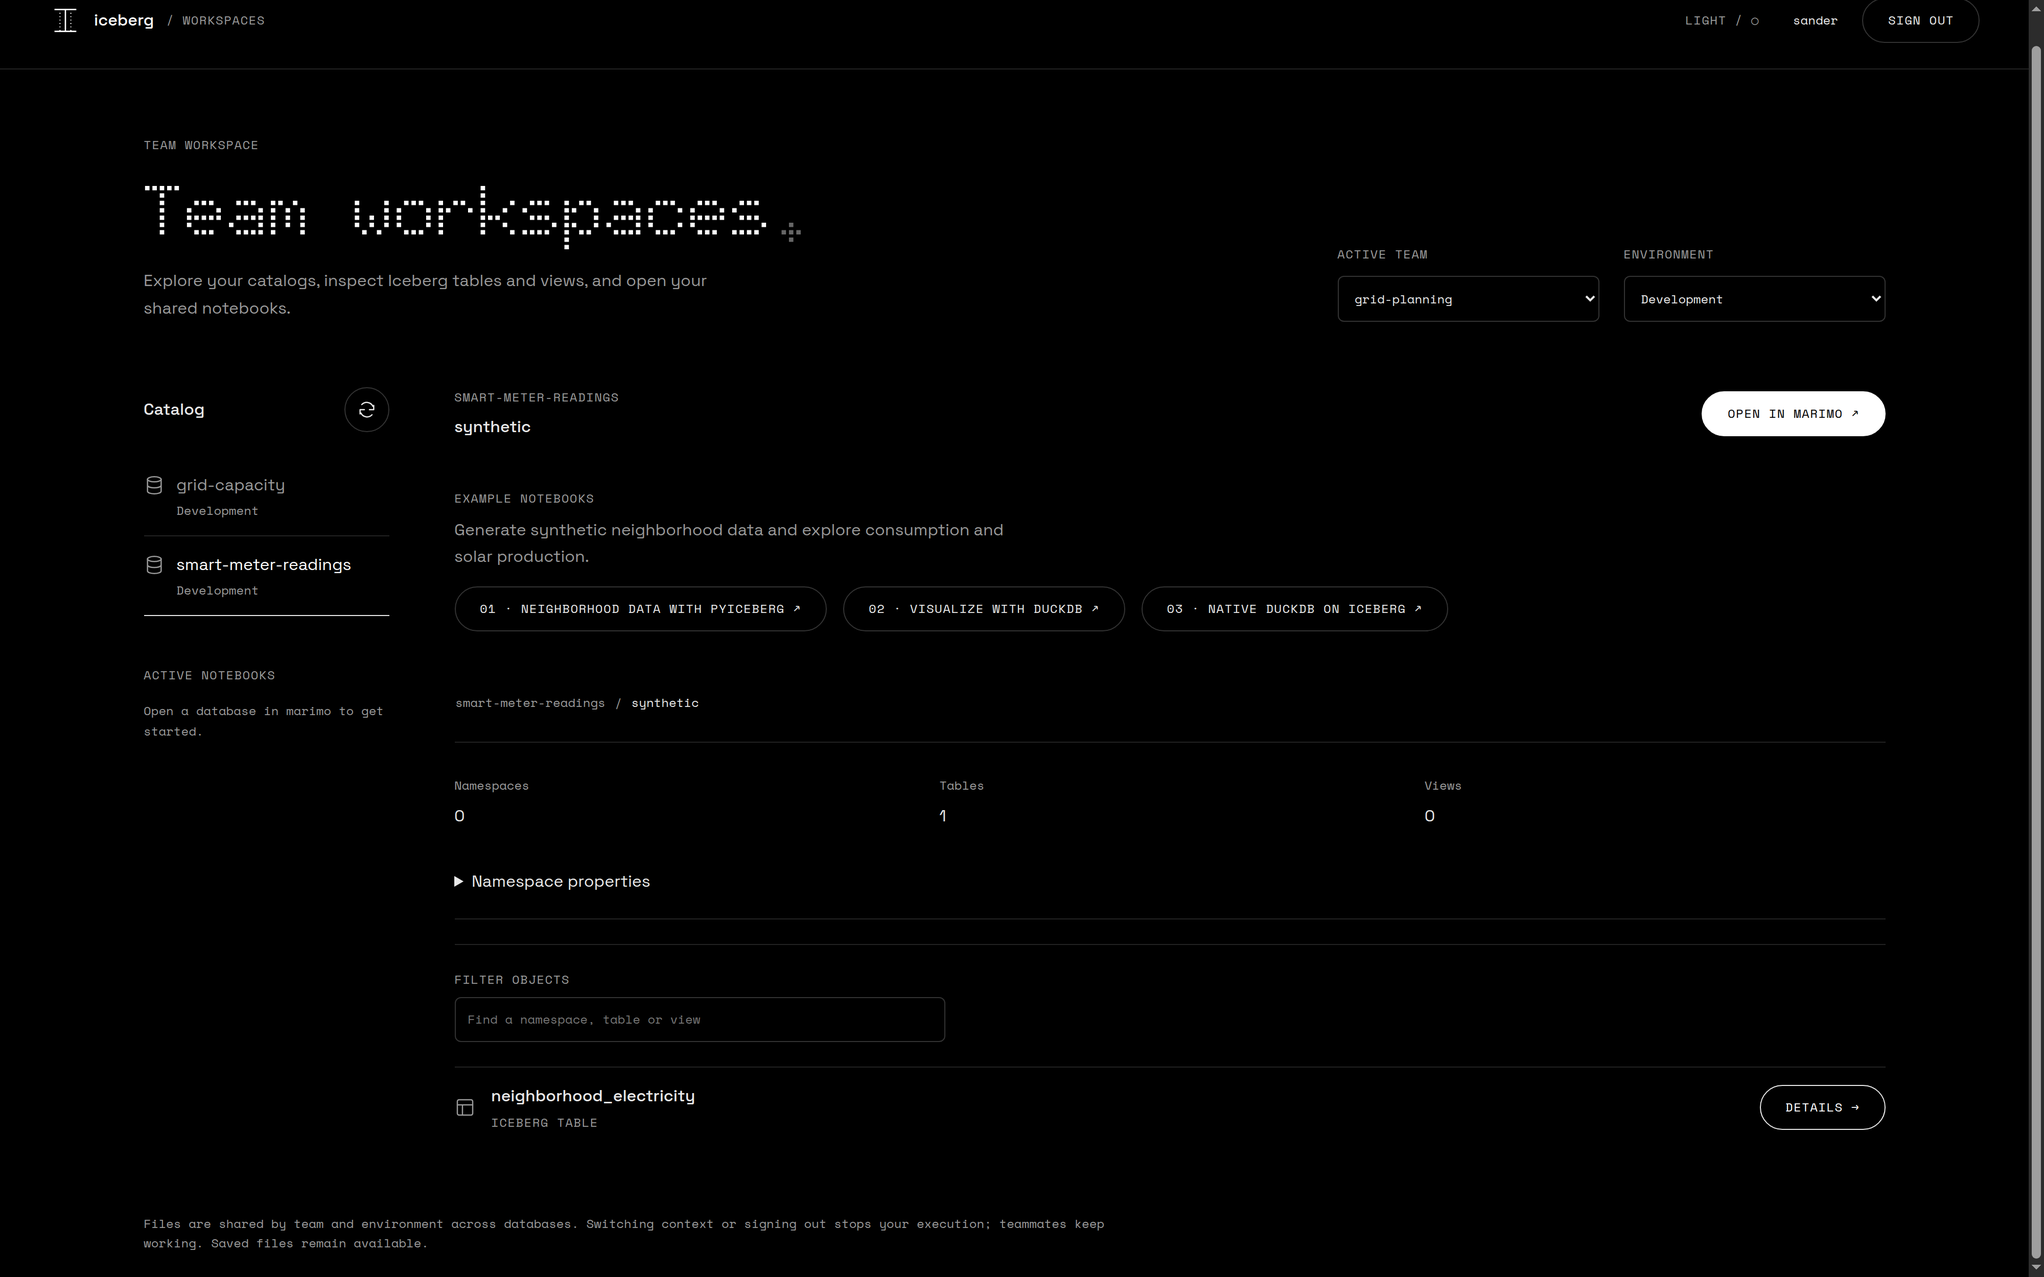
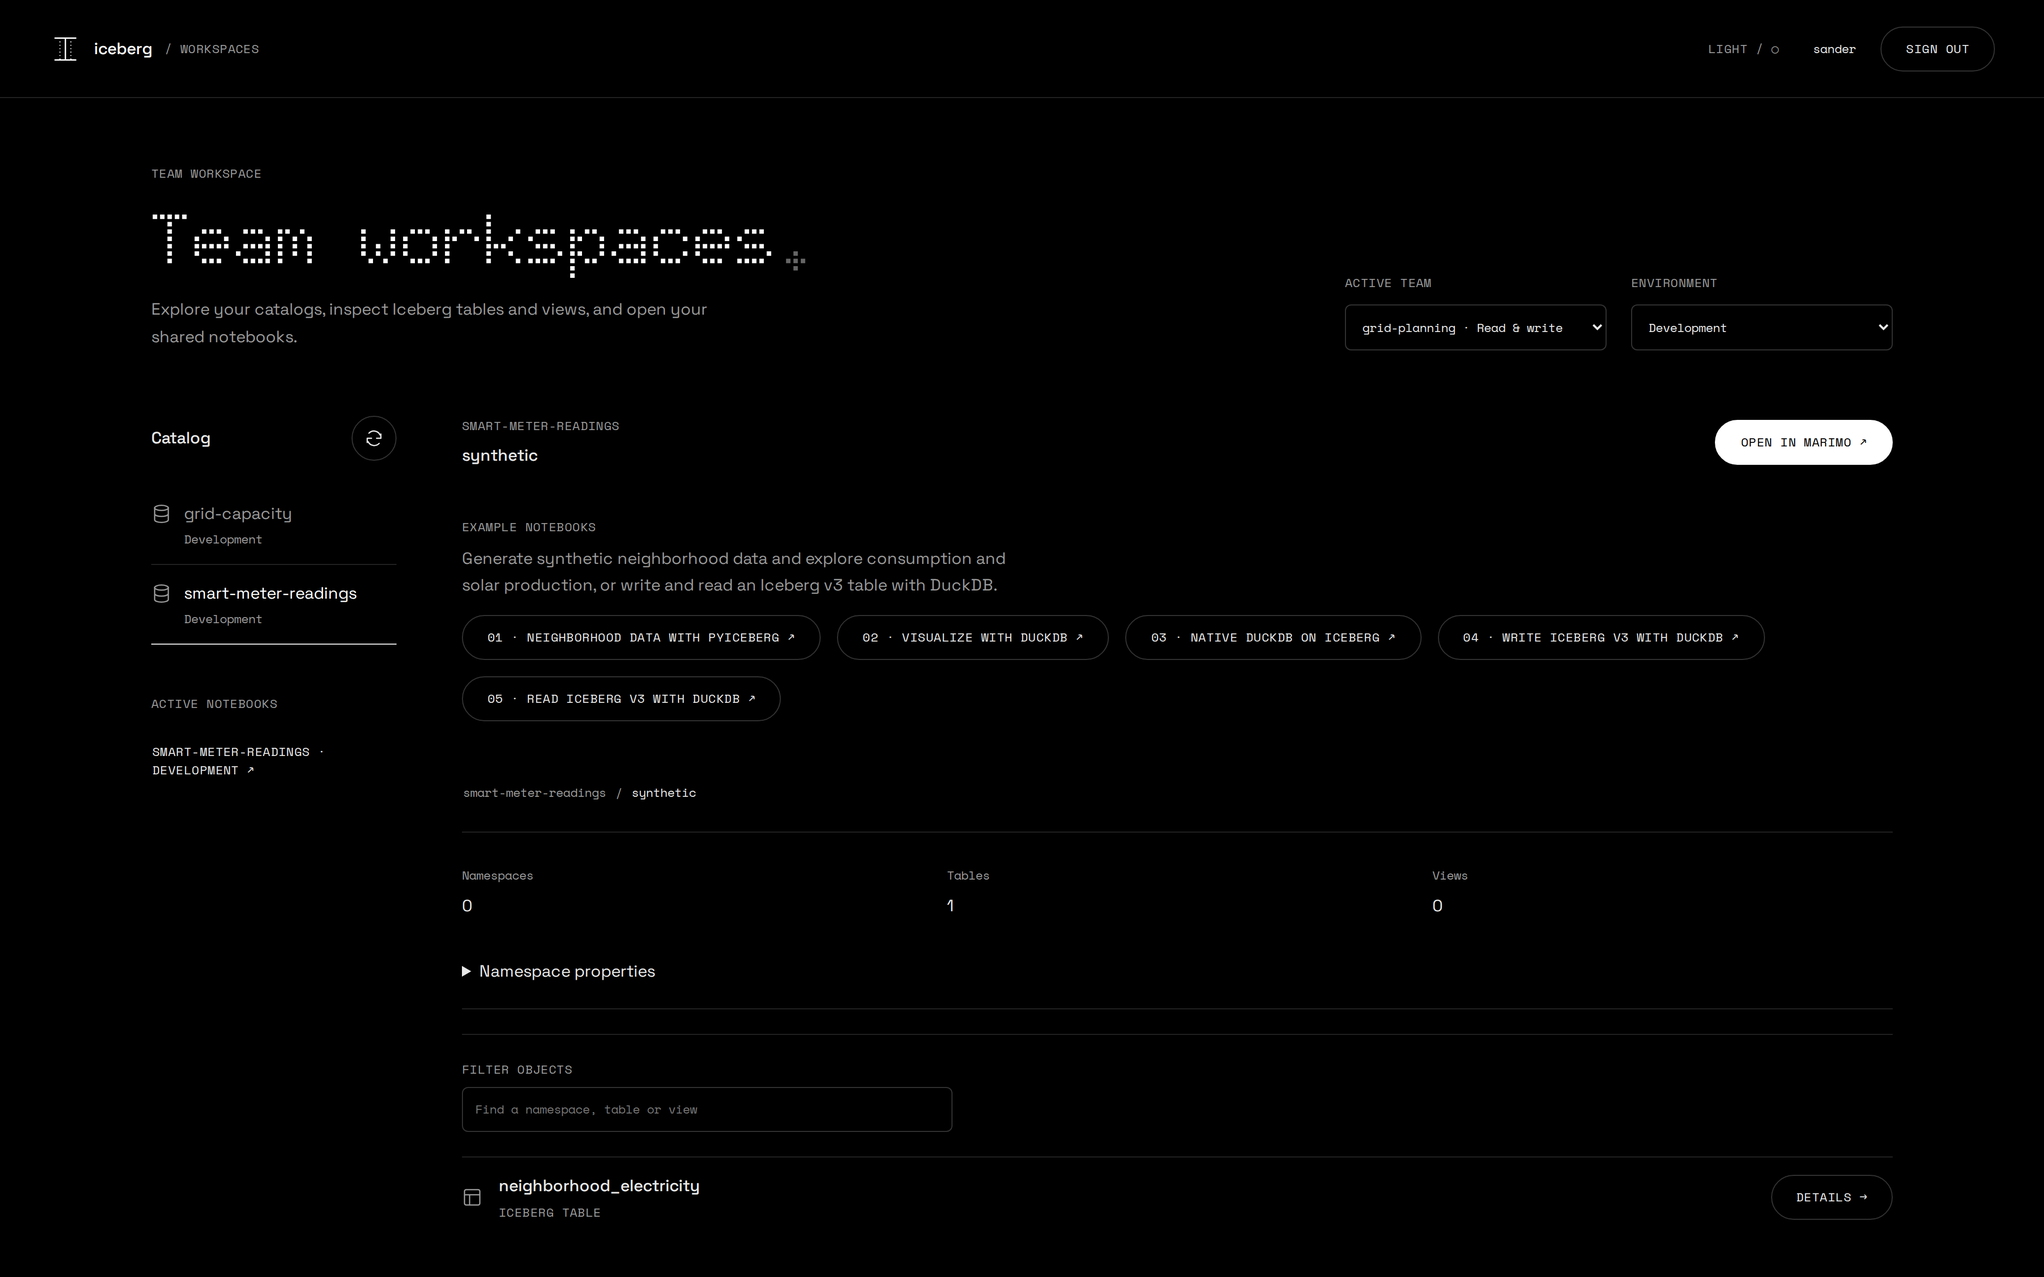
feat: add script for seeding demo story and capturing screenshots in local stack

diff --git a/presentation/index.html b/presentation/index.html
@@ -241,7 +241,7 @@
   <div class="cols-asym">
     <pre><code data-noescape>{
   <span class="k">"format-version"</span>: <span class="n">2</span>,
-  <span class="k">"table-uuid"</span>: <span class="s">"c6e6cf73-0a4b-492a-82dd-2a216d9040b3"</span>,
+  <span class="k">"table-uuid"</span>: <span class="s">"68abb0f3-1b50-4658-899a-da8035f031b2"</span>,
   <span class="k">"location"</span>: <span class="s">"s3://db-…/synthetic/neighborhood_electricity"</span>,
   <span class="k">"schemas"</span>: [{ <span class="k">"schema-id"</span>: <span class="n">0</span>, <span class="k">"fields"</span>: [
       { <span class="k">"id"</span>: <span class="n">1</span>, <span class="k">"name"</span>: <span class="s">"timestamp_utc"</span>, <span class="k">"type"</span>: <span class="s">"timestamptz"</span> },
@@ -250,16 +250,16 @@
       { <span class="k">"id"</span>: <span class="n">13</span>, <span class="k">"name"</span>: <span class="s">"grid_draw_kwh"</span>, <span class="k">"type"</span>: <span class="s">"double"</span> }
   ]}],
   <span class="k">"partition-specs"</span>: [{ <span class="k">"spec-id"</span>: <span class="n">0</span>, <span class="k">"fields"</span>: [] }],
-  <span class="k">"current-snapshot-id"</span>: <span class="n">6017469865504772874</span>,
-  <span class="k">"refs"</span>: { <span class="k">"main"</span>: { <span class="k">"snapshot-id"</span>: <span class="n">6017469865504772874</span>,
+  <span class="k">"current-snapshot-id"</span>: <span class="n">1208397818083668235</span>,
+  <span class="k">"refs"</span>: { <span class="k">"main"</span>: { <span class="k">"snapshot-id"</span>: <span class="n">1208397818083668235</span>,
                       <span class="k">"type"</span>: <span class="s">"branch"</span> } },
   <span class="k">"snapshots"</span>: [{
     <span class="k">"sequence-number"</span>: <span class="n">1</span>,
-    <span class="k">"snapshot-id"</span>: <span class="n">6017469865504772874</span>,
+    <span class="k">"snapshot-id"</span>: <span class="n">1208397818083668235</span>,
     <span class="k">"summary"</span>: { <span class="k">"operation"</span>: <span class="s">"append"</span>,
                  <span class="k">"added-records"</span>: <span class="s">"26880"</span>,
                  <span class="k">"total-data-files"</span>: <span class="s">"1"</span> },
-    <span class="k">"manifest-list"</span>: <span class="s">"s3://db-…/metadata/snap-6017…avro"</span>
+    <span class="k">"manifest-list"</span>: <span class="s">"s3://db-…/metadata/snap-1208…avro"</span>
   }]
 }</code></pre>
     <ul>
@@ -292,8 +292,8 @@
     <ul>
       <li><strong>Statistics in metadata.</strong> Planning skips files without opening them.</li>
       <li><strong>Many engines, one copy.</strong> DuckDB, Spark, Trino, Flink, PyIceberg. Snowflake and Databricks read Iceberg too.</li>
-      <li><strong>Branches and tags</strong> per table for audits and write-audit-publish.</li>
-      <li><strong>Views</strong> as first class catalog objects.</li>
+      <li><strong>Branches, tags and views.</strong> Refs per table for audits and write-audit-publish; views are first class catalog objects.</li>
+      <li><strong>Format version 3.</strong> Semi-structured <code>VARIANT</code>, nanosecond timestamps, geometry, column defaults, row lineage and deletion vectors.</li>
     </ul>
   </div>
   <p class="lede foot">In short: the capabilities you associate with a data warehouse, without the warehouse owning your data.</p>
@@ -326,13 +326,13 @@
   <table>
     <thead><tr><th>Capability</th><th>Component</th><th class="num">Version</th><th>License</th><th>Swappable for</th></tr></thead>
     <tbody>
-      <tr><td>Table format</td><td>Apache Iceberg (PyIceberg)</td><td class="num">spec v2 · 0.12</td><td class="mono">Apache-2.0</td><td>It is the standard. Engines come and go.</td></tr>
+      <tr><td>Table format</td><td>Apache Iceberg (PyIceberg)</td><td class="num">spec v2 and v3 · 0.12</td><td class="mono">Apache-2.0</td><td>It is the standard. Engines come and go.</td></tr>
       <tr><td>Catalog and permissions</td><td>Apache Polaris</td><td class="num">1.7.0</td><td class="mono">Apache-2.0</td><td>Lakekeeper, Nessie, Gravitino, Unity Catalog OSS, AWS Glue</td></tr>
       <tr><td>Identity (OIDC)</td><td>Keycloak</td><td class="num">26.7.3</td><td class="mono">Apache-2.0</td><td>Entra ID, Okta, any OIDC provider</td></tr>
       <tr><td>Object storage (S3 API)</td><td>RustFS</td><td class="num">1.0.0</td><td class="mono">Apache-2.0</td><td>AWS S3, MinIO, Ceph, Cloudflare R2, on-prem</td></tr>
       <tr><td>Catalog metadata store</td><td>PostgreSQL</td><td class="num">18</td><td class="mono">PostgreSQL</td><td>Managed Postgres anywhere</td></tr>
       <tr><td>Notebooks</td><td>marimo</td><td class="num">0.24.2</td><td class="mono">Apache-2.0</td><td>Jupyter, VS Code, any Python client</td></tr>
-      <tr><td>Query engine</td><td>DuckDB</td><td class="num">1.5.5</td><td class="mono">MIT</td><td>Trino, Spark, Flink, Polars, ClickHouse</td></tr>
+      <tr><td>Query engine</td><td>DuckDB with the iceberg extension, reads and writes</td><td class="num">1.5.5</td><td class="mono">MIT</td><td>Trino, Spark, Flink, Polars, ClickHouse</td></tr>
       <tr><td>Portals and API</td><td>FastAPI, Python 3.14</td><td class="num">0.141</td><td class="mono">MIT</td><td>Ours. Thin by design.</td></tr>
     </tbody>
   </table>
@@ -396,7 +396,7 @@
       <li><strong>Fewer vendors, more decisions.</strong> A feature for architecture, a real cost for a small team.</li>
     </ul>
   </div>
-  <p class="secondary foot">Open source does not mean free of work. What you gain in ownership you also gain in responsibility. My take: worth it when data is a long term asset. It usually is.</p>
+  <p class="secondary foot">Open source does not mean free of work. What you gain in ownership you also gain in responsibility.</p>
 </section>
 
 <!-- ========== PART 3: DEMO ========== -->
@@ -480,7 +480,7 @@
       <img class="shot" src="screenshots/04-admin-teams.png" alt="Admin portal teams page">
       <img class="shot" src="screenshots/03-admin-users.png" alt="Admin portal users page">
     </div>
-    <div class="caption foot two"><span>Teams · a central place for ownership and membership</span><span>Users · Keycloak accounts with team membership and one role</span></div>
+    <div class="caption foot two"><span>Teams · a central place for ownership and membership</span><span>Users · Keycloak accounts with a role in every team they belong to</span></div>
     <div class="hint">↓ full screen</div>
   </section>
   <section class="full" data-background-image="screenshots/04-admin-teams.png" data-background-size="contain" data-background-color="#000000">
@@ -489,6 +489,13 @@
   <section class="full" data-background-image="screenshots/03-admin-users.png" data-background-size="contain" data-background-color="#000000">
     <div class="caption">Admin portal · users</div>
   </section>
+</section>
+
+<section class="shot-slide">
+  <div class="head"><span class="label">Demo · Administration</span><h2>A role per team, not per user</h2></div>
+  <div class="fig"><img class="shot" src="screenshots/24-admin-edit-access.png" alt="Edit access dialog with a role select for every team of the user"></div>
+  <div class="caption foot">Edit access · sander reads asset-management and writes grid-planning · each role reaches only the databases of that team</div>
+  <aside class="notes">Read, read and write, or administrator, chosen per team. Saving re-syncs the Polaris grants of every database those teams own. Database administration never grants access to this portal.</aside>
 </section>
 
 <section class="shot-slide">
@@ -523,7 +530,7 @@
       <img class="shot" src="screenshots/07-user-welcome.png" alt="User portal welcome page">
       <img class="shot" src="screenshots/08-user-catalog-empty.png" alt="User portal with active team, environment and database selected">
     </div>
-    <div class="caption foot two"><span>User portal :3002</span><span>Switch team and environment · five bundled example notebooks</span></div>
+    <div class="caption foot two"><span>User portal :3002 · sign in with the same Keycloak account</span><span>Active team with your role in it · environment · five bundled example notebooks</span></div>
     <div class="hint">↓ full screen</div>
   </section>
   <section class="full" data-background-image="screenshots/07-user-welcome.png" data-background-size="contain" data-background-color="#000000">
@@ -589,6 +596,76 @@
 </section>
 
 <section>
+  <div class="label">Demo · Iceberg v3</div>
+  <h2>Iceberg v3, written by DuckDB</h2>
+  <div class="cols-asym">
+    <pre style="font-size:0.58em"><code data-noescape><span class="k">CREATE TABLE</span> lakehouse.iceberg_v3.sensor_events (
+    event_id     <span class="n">BIGINT</span>,
+    device_id    <span class="n">VARCHAR</span>,
+    site         <span class="n">VARCHAR</span>,
+    location     <span class="k">GEOMETRY</span>,
+    measured_at  <span class="k">TIMESTAMP_NS</span>,
+    payload      <span class="k">VARIANT</span>,
+    synthetic    <span class="n">BOOLEAN</span>
+) <span class="k">WITH</span> (<span class="s">'format-version'</span> = <span class="n">3</span>);
+
+<span class="k">ALTER TABLE</span> … <span class="k">ADD COLUMN</span> firmware <span class="n">VARCHAR</span> <span class="k">DEFAULT</span> <span class="s">'v1.0'</span>;
+<span class="k">UPDATE</span> … <span class="k">SET</span> firmware = <span class="s">'v2.0'</span> <span class="k">WHERE</span> device_id = <span class="s">'SENSOR-001'</span>;
+<span class="k">DELETE FROM</span> … <span class="k">WHERE</span> payload.kind::<span class="n">VARCHAR</span> = <span class="s">'fault'</span>;</code></pre>
+    <ul>
+      <li><strong>VARIANT</strong> holds a different structure per event, no fixed schema.</li>
+      <li><strong>TIMESTAMP_NS</strong> and <strong>GEOMETRY</strong> are native column types.</li>
+      <li><strong>Column defaults.</strong> Adding <code>firmware</code> rewrites none of the 480 rows.</li>
+      <li><strong>Deletion vectors.</strong> Updates and deletes mark row positions in a small Puffin file.</li>
+      <li><strong>Row lineage.</strong> Every row keeps a stable ID and the commit that last changed it.</li>
+    </ul>
+  </div>
+  <div class="caption foot">Plain SQL through the Polaris REST catalog, with the user's own permissions · GEOGRAPHY and UNKNOWN are not in DuckDB yet · PyIceberg does not read these v3 types yet</div>
+</section>
+
+<section>
+  <section class="shot-slide">
+    <div class="head"><span class="label">Demo · Notebook 04</span><h2>Write Iceberg v3 with DuckDB</h2></div>
+    <div class="fig two">
+      <img class="shot" src="screenshots/25-notebook-04-v3-create.png" alt="marimo notebook creating a format-version 3 table with DuckDB and inserting events">
+      <img class="shot" src="screenshots/26-notebook-04-v3-delete.png" alt="marimo notebook updating and deleting rows in the v3 table">
+    </div>
+    <div class="caption foot two"><span>CREATE TABLE with format-version 3 · Polaris vends credentials for the table it just created · 480 events inserted</span><span>40 rows updated, 45 deleted · no data file rewritten · needs the read and write role, enforced by Polaris</span></div>
+    <div class="hint">↓ full screen</div>
+  </section>
+  <section class="full" data-background-image="screenshots/25-notebook-04-v3-create.png" data-background-size="contain" data-background-color="#000000">
+    <div class="caption">marimo · example 04 · create and insert</div>
+  </section>
+  <section class="full" data-background-image="screenshots/26-notebook-04-v3-delete.png" data-background-size="contain" data-background-color="#000000">
+    <div class="caption">marimo · example 04 · update and delete</div>
+  </section>
+</section>
+
+<section>
+  <section class="shot-slide">
+    <div class="head"><span class="label">Demo · Notebook 05</span><h2>Read what v3 adds, in SQL</h2></div>
+    <div class="fig two">
+      <img class="shot" src="screenshots/27-notebook-05-variant.png" alt="DuckDB querying fields inside a VARIANT column">
+      <img class="shot" src="screenshots/28-notebook-05-lineage.png" alt="DuckDB querying row lineage and deletion vectors of the v3 table">
+    </div>
+    <div class="caption foot two"><span>Fields inside the VARIANT, addressed with dots and cast on read</span><span>Row lineage: which commit last touched a row · deletion vectors from the table metadata · time travel to the first snapshot</span></div>
+    <div class="hint">↓ full screen</div>
+  </section>
+  <section class="full" data-background-image="screenshots/27-notebook-05-variant.png" data-background-size="contain" data-background-color="#000000">
+    <div class="caption">marimo · example 05 · variant</div>
+  </section>
+  <section class="full" data-background-image="screenshots/28-notebook-05-lineage.png" data-background-size="contain" data-background-color="#000000">
+    <div class="caption">marimo · example 05 · row lineage and deletion vectors</div>
+  </section>
+</section>
+
+<section class="shot-slide">
+  <div class="head"><span class="label">Demo · Iceberg v3</span><h2>A delete is one small file</h2></div>
+  <div class="fig"><img class="shot" src="screenshots/31-rustfs-v3-puffin.png" alt="RustFS console listing the Parquet data files and Puffin deletion vectors of the v3 table"></div>
+  <div class="caption foot">RustFS · iceberg_v3/sensor_events/data · Parquet data files stay untouched · each update or delete adds a Puffin deletion vector of a few hundred bytes</div>
+</section>
+
+<section>
   <section class="shot-slide">
     <div class="head"><span class="label">Demo · Catalog details</span><h2>Inspect a table without opening a notebook</h2></div>
     <div class="fig two">
@@ -607,6 +684,9 @@
   <section class="full" data-background-image="screenshots/17-user-table-schema.png" data-background-size="contain" data-background-color="#000000">
     <div class="caption">User portal · schema</div>
   </section>
+  <section class="full" data-background-image="screenshots/29-user-table-v3-overview.png" data-background-size="contain" data-background-color="#000000">
+    <div class="caption">User portal · the v3 table · format version 3, three delete files</div>
+  </section>
 </section>
 
 <section>
@@ -616,7 +696,7 @@
       <img class="shot" src="screenshots/18-user-table-snapshots.png" alt="Snapshot history and branches of the table">
       <img class="shot" src="screenshots/19-user-table-preview.png" alt="Preview of 100 rows at the selected snapshot">
     </div>
-    <div class="caption foot two"><span>History and refs · main branch</span><span>100 rows at a selected snapshot · read with the user's own permissions in a disposable process</span></div>
+    <div class="caption foot two"><span>History and refs · main branch</span><span>100 rows at a selected snapshot · DuckDB in a disposable process, with the user's own permissions</span></div>
     <div class="hint">↓ full screen</div>
   </section>
   <section class="full" data-background-image="screenshots/18-user-table-snapshots.png" data-background-size="contain" data-background-color="#000000">
@@ -624,6 +704,9 @@
   </section>
   <section class="full" data-background-image="screenshots/19-user-table-preview.png" data-background-size="contain" data-background-color="#000000">
     <div class="caption">User portal · preview at a snapshot</div>
+  </section>
+  <section class="full" data-background-image="screenshots/30-user-table-v3-preview.png" data-background-size="contain" data-background-color="#000000">
+    <div class="caption">User portal · preview of the v3 table · geometry as text, VARIANT as JSON</div>
   </section>
 </section>
 

diff --git a/presentation/README.md b/presentation/README.md
@@ -1,10 +1,10 @@
 # Presentation
 
-reveal.js deck about the platform, with screenshots captured from a running local stack on 2026-09-16.
+reveal.js deck about the platform, with screenshots captured from a running local stack on 2026-09-19.
 
 - `index.html` — the deck. Styled after the [Nothing design skill](https://github.com/dominikmartn/nothing-design-skill): OLED black, Doto for hero moments, Space Grotesk body, Space Mono labels, no shadows or gradients. reveal.js 5.1 loads from cdnjs, so an internet connection is needed the first time.
 - `fonts/` — Doto, Space Grotesk and Space Mono with their OFL licenses, copied from `public/fonts/` so the deck matches the portals and renders offline.
-- `screenshots/` — PNG captures of the admin portal, user portal, marimo notebooks, RustFS console and Keycloak, taken at 2000×1250 CSS pixels with a 2× device pixel ratio (4000×2500 PNG).
+- `screenshots/` — PNG captures of the admin portal, user portal, the five marimo example notebooks (PyIceberg, DuckDB, Iceberg v3), RustFS console and Keycloak, all 4000×2500 PNG: a 2000×1250 CSS pixel viewport at a 2× device pixel ratio. The access dialog uses 1600×1000 at 2.5× so it fills more of the same image.
 
 Slides with a single screenshot show it as large as the stage allows. Slides with two screenshots have vertical slides below them (arrow down or swipe) that show each capture full screen; the `↓ full screen` hint at the top right marks those slides. Captions always sit at the bottom of the slide.
 
@@ -15,6 +15,17 @@ npx --yes serve presentation
 ```
 
 Keys: arrows to navigate, `S` for speaker notes, `F` for fullscreen, `ESC` for the overview.
+
+## Recapture the screenshots
+
+`scripts/presentation-screenshots.mjs` signs in through Keycloak, seeds the demo story (three teams of a fictional grid operator, five databases, three users with a role per team), runs the five example notebooks as `sander` and writes every PNG in `screenshots/`. It needs both stacks running and the Playwright Chromium (`npx playwright install chromium`).
+
+```bash
+npm run presentation:screenshots                 # everything
+npm run presentation:screenshots -- --only 03,24 # a few shots, by number
+```
+
+Seeding skips what already exists, and the passwords chosen at the forced first sign-in are kept in `.local/presentation/state.json` (git-ignored), so the script can run again on the same stack. Start from empty volumes (`docker compose down -v`, delete that state file) for a bucket listing without leftover files of repeated notebook runs. The infrastructure page keeps fifteen minutes of probe history and scans the buckets every five, so capture it last on a stack that has been up that long: `-- --only 05`.
 
 Export to PDF: open `index.html?print-pdf` in Chrome and print to PDF.
 
